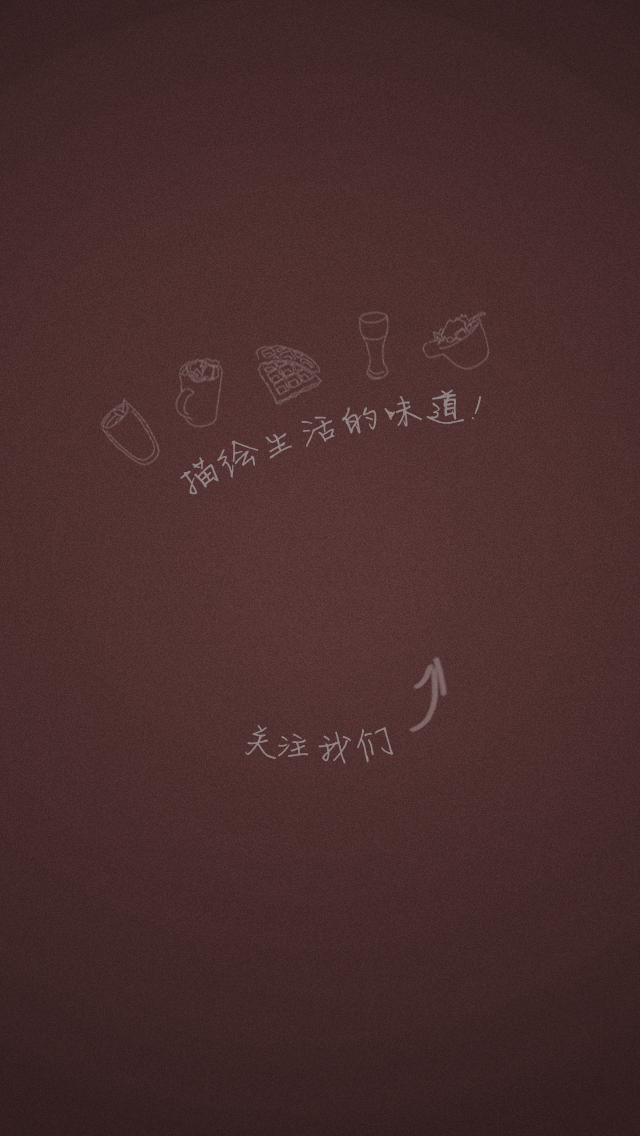
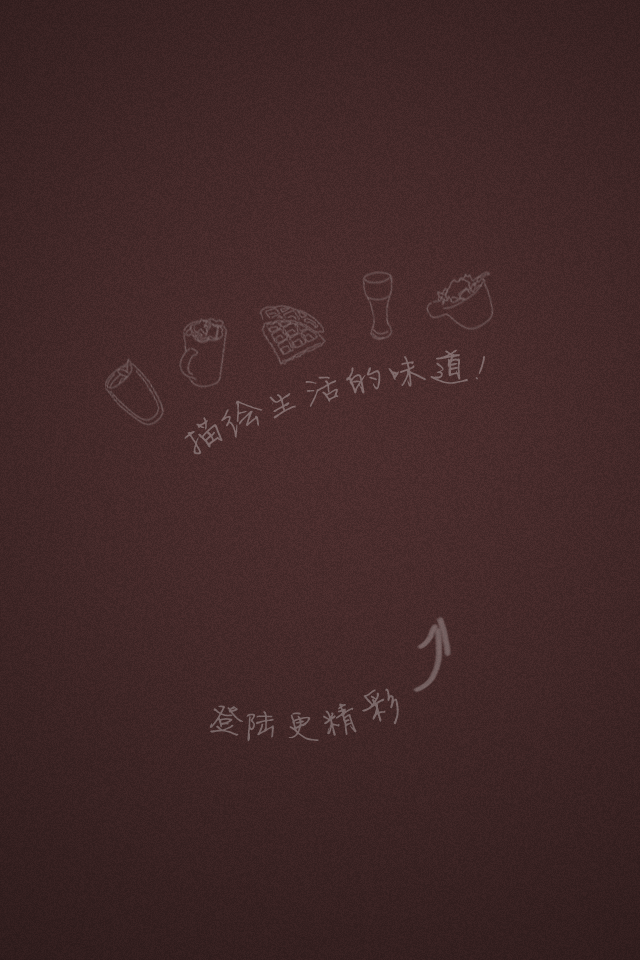
resource update

diff --git a/MoreCafe/src/MaWeiboViewController.m b/MoreCafe/src/MaWeiboViewController.m
@@ -95,8 +95,14 @@
 -(void)initLoginView
 {
 	_loginView = [[UIView alloc] initWithFrame:self.view.frame];
-	
-	UIImage* backgroundImg = [UIImage imageNamed:@"weiboLoginBackground"];
+	UIImage* backgroundImg;
+	if ([MaUtility hasFourInchDisplay]) {	
+		backgroundImg = [UIImage imageNamed:@"weiboLoginBackground-568h"];	
+	}
+	else
+	{
+		backgroundImg = [UIImage imageNamed:@"weiboLoginBackground"];	
+	}
 	UIImageView* backgroundView = [[UIImageView alloc] initWithImage:backgroundImg];
 	backgroundView.image = backgroundImg;
 	

diff --git a/MoreCafe/src/3rd/EGORefreshTableHeaderView/EGORefreshTableHeaderView.m b/MoreCafe/src/3rd/EGORefreshTableHeaderView/EGORefreshTableHeaderView.m
@@ -73,7 +73,7 @@
 		CALayer *layer = [CALayer layer];
 		layer.frame = CGRectMake(25.0f, frame.size.height - 65.0f, 30.0f, 55.0f);
 		layer.contentsGravity = kCAGravityResizeAspect;
-		layer.contents = (id)[UIImage imageNamed:@"blueArrow.png"].CGImage;
+		layer.contents = (id)[UIImage imageNamed:@"grayArrow.png"].CGImage;
 		
 #if __IPHONE_OS_VERSION_MAX_ALLOWED >= 40000
 		if ([[UIScreen mainScreen] respondsToSelector:@selector(scale)]) {

diff --git a/MoreCafe/src/MaUtility.h b/MoreCafe/src/MaUtility.h
@@ -13,5 +13,5 @@
 + (NSString*) encodeingText:(NSString*)text;
 + (void)fillText:(NSString*)inString to:(DTAttributedTextView*)view;
 + (CGFloat) estimateHeightBy:(NSString*)text image:(NSString*)imageURL;
-
++ (BOOL)hasFourInchDisplay;
 @end

diff --git a/MoreCafe/src/MaAboutViewController.m b/MoreCafe/src/MaAboutViewController.m
@@ -203,7 +203,6 @@
 	 //replaceCharactersInRange:(NSRange)range withString:(NSString *)aString;
 	 [MaUtility fillText:[MaUtility encodeingText:string] to:_weiboStatusView];
 	 [self.view addSubview:_weiboStatusView];
-	 
 	 */	
 	
 	

diff --git a/MoreCafe/src/MaUtility.m b/MoreCafe/src/MaUtility.m
@@ -83,5 +83,9 @@
     return height;
 }
 
++ (BOOL)hasFourInchDisplay {
+    return ([[UIDevice currentDevice] userInterfaceIdiom] == UIUserInterfaceIdiomPhone && [UIScreen mainScreen].bounds.size.height == 568.0);
+}
+
 
 @end
